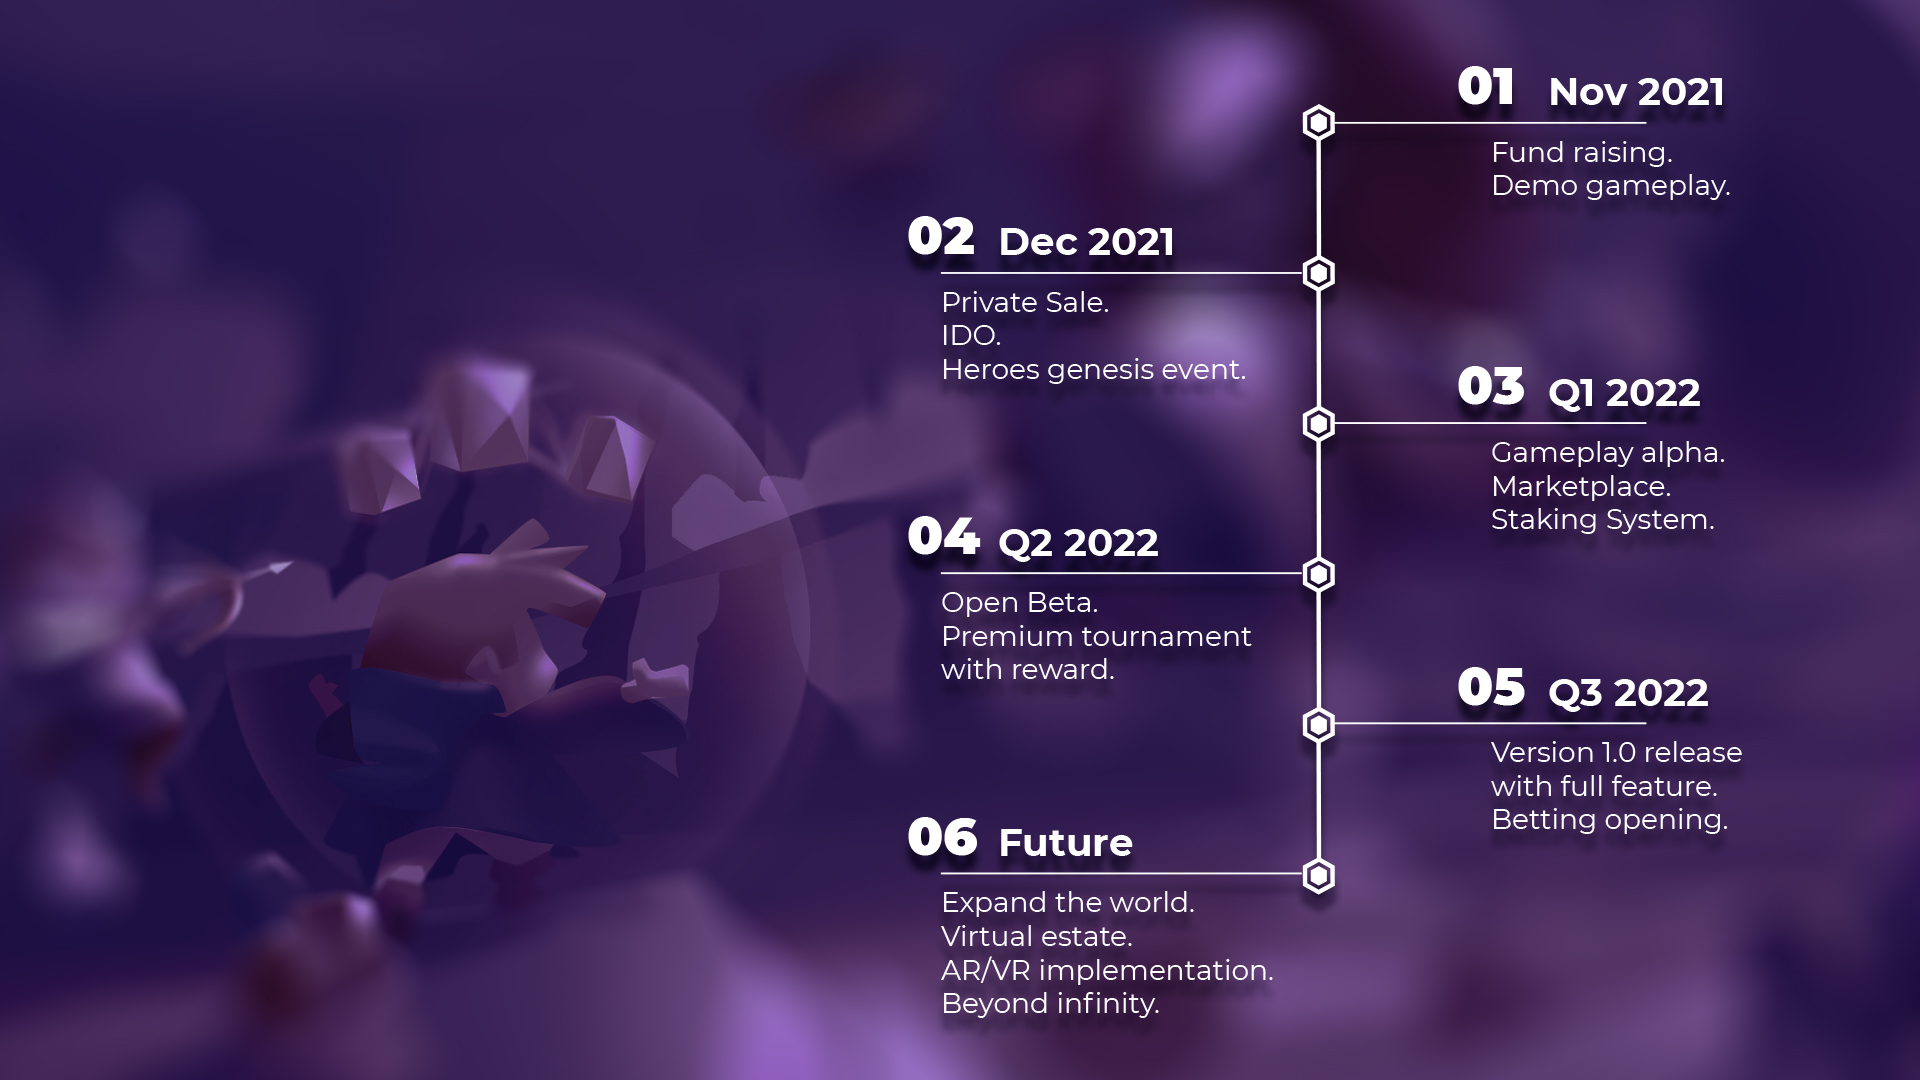
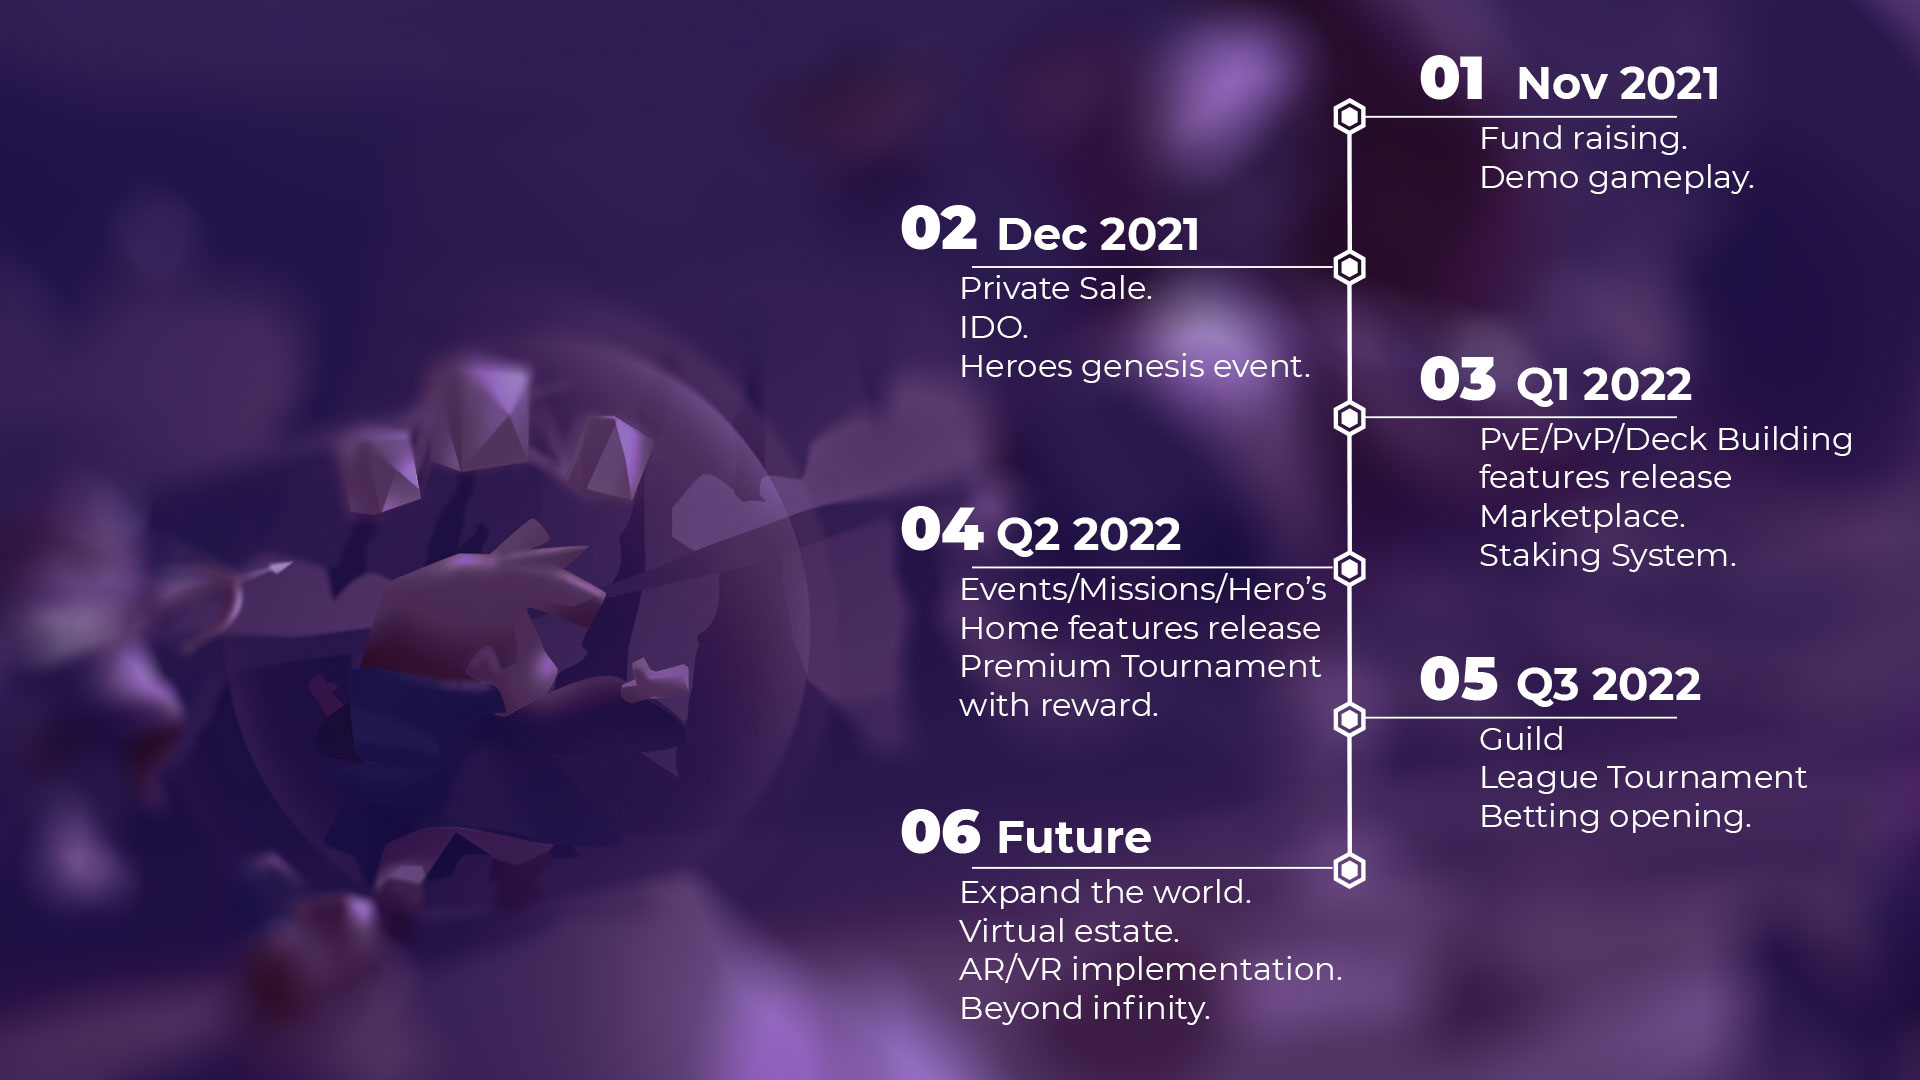
add new roadmap

diff --git a/public/static/css/style.css b/public/static/css/style.css
@@ -688,6 +688,6 @@ label {
     width: 100%;
   }
   #roadmapimg {
-    content:url("/static/img/portrait_timeline.png")
+    content:url("/static/img/roadmaplite.png")
   }
 }
